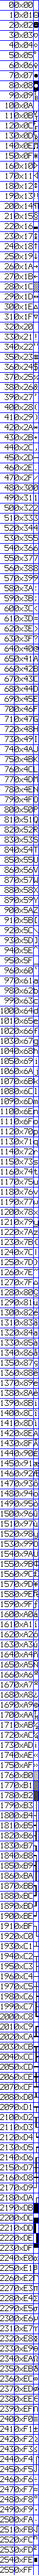
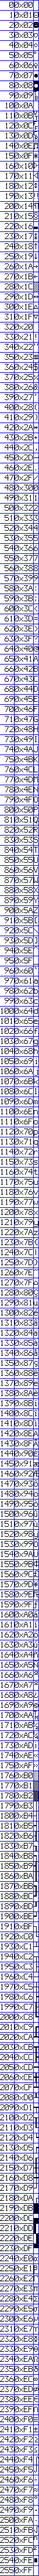
charset export tweak

Changed region(s): [[0.0, 0.0938, 0.8358, 1.0], [0.8657, 0.0938, 0.9851, 1.0]]

diff --git a/fp_osd.c b/fp_osd.c
@@ -52,7 +52,7 @@ void charset_export_png(void){ //charset to png export, limited from char 0 to 2
 
     uint32_t txt_col = 0xff000000, grid_col = 0xffff0000;
     for (int cset=0; cset<charset_count; cset++){
-        uint32_t tmp_width = RASPIDMX_FONT_WIDTH * 8 + 3, tmp_height = char_limit[cset] * (RASPIDMX_FONT_HEIGHT + 1);
+        uint32_t tmp_width = RASPIDMX_FONT_WIDTH * 8 + 3, tmp_height = char_limit[cset] * (RASPIDMX_FONT_HEIGHT + 1) + 1;
         void *buffer_ptr = calloc(1, tmp_width * tmp_height * 4);
         if (buffer_ptr != NULL){
             buffer_fill(buffer_ptr, tmp_width, tmp_height, 0xffffffff);
